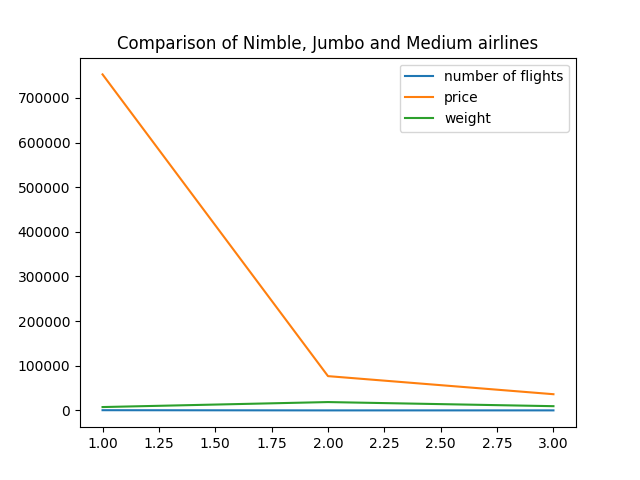
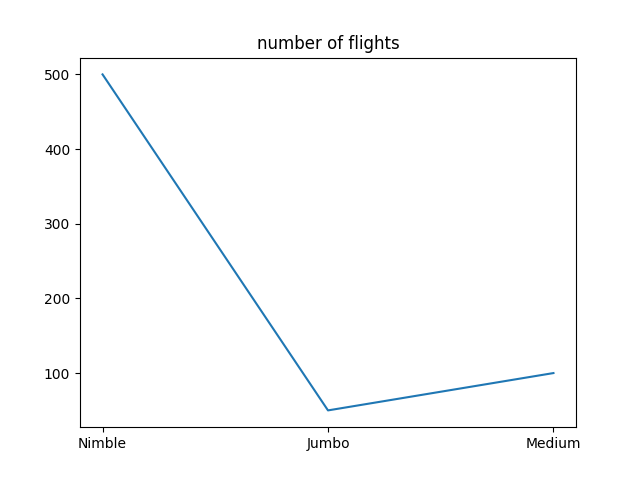
new scripts

diff --git a/episode 2/main.py b/episode 2/main.py
@@ -1,69 +1,59 @@
 import matplotlib.pyplot as plt
 import pandas as pd
-with open ("flights.csv",'r') as f:
-    s=f.read().split('\n')
-    a=[]
-    for i in range(len(s)-1):
-        a.append(str(s[i+1]).split(','))
-    df=pd.DataFrame(a,columns=list('ABCD'))
-    arr = []
-    brr = []
-    crr = []
-    n=len(df[df['B'] == "Nimble"])
-    print("Nimble")
-    print("n="+str(len(df[df['B'] == "Nimble"])))
-    df2=pd.DataFrame(df[df['B'] == "Nimble"])
-    arr.append(n)
-    b = 0
-    for i in range(len(df2)):
-        b += int(df2.loc[i, 'C'])
-    print("Price=" + str(b))
-    brr.append(b)
-    b=0
-    for i in range(len(df2)):
-        b+=int(df2.loc[i,'D'])
-    print("Weight="+str(b))
-    crr.append(b)
-
-    n = len(df[df['B'] == "Jumbo"])
-    print("Jumbo")
-    print("n=" + str(len(df[df['B'] == "Jumbo"])))
-    df2 = pd.DataFrame(df[df['B'] == "Jumbo"])
-    arr.append(n)
-    b = 0
-    for i in range(len(df2)):
-        b += int(df2.loc[i+arr[0], 'C'])
-    print("Price=" + str(b))
-    brr.append(b)
-    b = 0
-    for i in range(len(df2)):
-        b += int(df2.loc[i+arr[0], 'D'])
-    print("Weight=" + str(b))
-    crr.append(b)
+df=pd.read_csv('flights.csv')
+arr = []
+brr = []
+crr = []
+df2=pd.DataFrame(df[df['CARGO'] == "Nimble"])
+n=len(df2)
+print("Nimble")
+print("n="+str(n))
+arr.append(n)
+b = df2.loc[:,'PRICE'].sum()
+print("Price=" + str(b))
+brr.append(b)
+b = df2.loc[:,'WEIGHT'].sum()
+print("Weight="+str(b))
+crr.append(b)
 
 
-    n = len(df[df['B'] == "Medium"])
-    print("Medium")
-    print("n=" + str(len(df[df['B'] == "Medium"])))
-    df2 = pd.DataFrame(df[df['B'] == "Medium"])
-    arr.append(n)
-    b = 0
-    for i in range(len(df2)):
-        b += int(df2.loc[i+arr[0]+arr[1], 'C'])
-    print("Price=" + str(b))
-    brr.append(b)
-    b = 0
-    for i in range(len(df2)):
-        b += int(df2.loc[i+arr[0]+arr[1], 'D'])
-    print("Weight=" + str(b))
-    crr.append(b)
+df2 = pd.DataFrame(df[df['CARGO'] == "Jumbo"])
+n = len(df2)
+print("Jumbo")
+print("n="+str(n))
+arr.append(n)
+b = df2.loc[:,'PRICE'].sum()
+print("Price=" + str(b))
+brr.append(b)
+b = df2.loc[:,'WEIGHT'].sum()
+print("Weight="+str(b))
+crr.append(b)
 
 
-    x=[1,2,3]
-    plt.plot(x,arr,label='number of flights')
-    plt.plot(x, brr, label='price')
-    plt.plot(x, crr, label='weight')
-    plt.title("Comparison of Nimble, Jumbo and Medium airlines")
-    plt.legend()
-    plt.savefig("1.png")
-    plt.show()
+
+df2 = pd.DataFrame(df[df['CARGO'] == "Medium"])
+n = len(df2)
+print("Medium")
+print("n="+str(n))
+arr.append(n)
+b = df2.loc[:,'PRICE'].sum()
+print("Price=" + str(b))
+brr.append(b)
+b = df2.loc[:,'WEIGHT'].sum()
+print("Weight="+str(b))
+crr.append(b)
+
+
+x=['Nimble','Jumbo','Medium']
+plt.plot(x,arr)
+plt.title('number of flights')
+plt.savefig("1.png")
+plt.show()
+plt.plot(x, brr)
+plt.title('price')
+plt.savefig("2.png")
+plt.show()
+plt.plot(x, crr)
+plt.title('weight')
+plt.savefig("3.png")
+plt.show()

diff --git a/episode 1/main.py b/episode 1/main.py
@@ -1,20 +1,8 @@
 import pandas as pd
-with open ("transactions.csv",'r') as f:
-    s=f.read().split('\n')
-    a=[]
-    for i in range(len(s)-2):
-        a.append(str(s[i+1]).split(','))
-        a[i][4]=int(a[i][4])
-        c=''
-        for j in range(len(a[i][1])-1):
-            c+=a[i][1][j+1]
-        a[i][1]=c
-    df=pd.DataFrame(a,columns=list('ABCDE'))
-    df2=pd.DataFrame(df[df['D'] == "OK"])
-    df3=pd.DataFrame(df2.sort_values(by='E', ascending=False))
-    print(df3.iloc[0:3])
-    df3 = pd.DataFrame(df2[df2['B']=="Umbrella"])
-    b=0
-    for i in range(len(df3)):
-        b+=df3.iat[i,4]
-    print('sum of payments to Umbrella, Inc. = '+str(b))
+df=pd.read_csv('transactions.csv')
+df2=pd.DataFrame(df[df['STATUS'] == "OK"])
+df3=pd.DataFrame(df2.sort_values(by='SUM', ascending=False))
+print(df3.iloc[0:3])
+df3 = pd.DataFrame(df2[df2['CONTRACTOR']=="Umbrella, Inc"])
+b=(df3.iloc[:,3].sum())
+print('sum of payments to Umbrella, Inc. = '+str(b))
